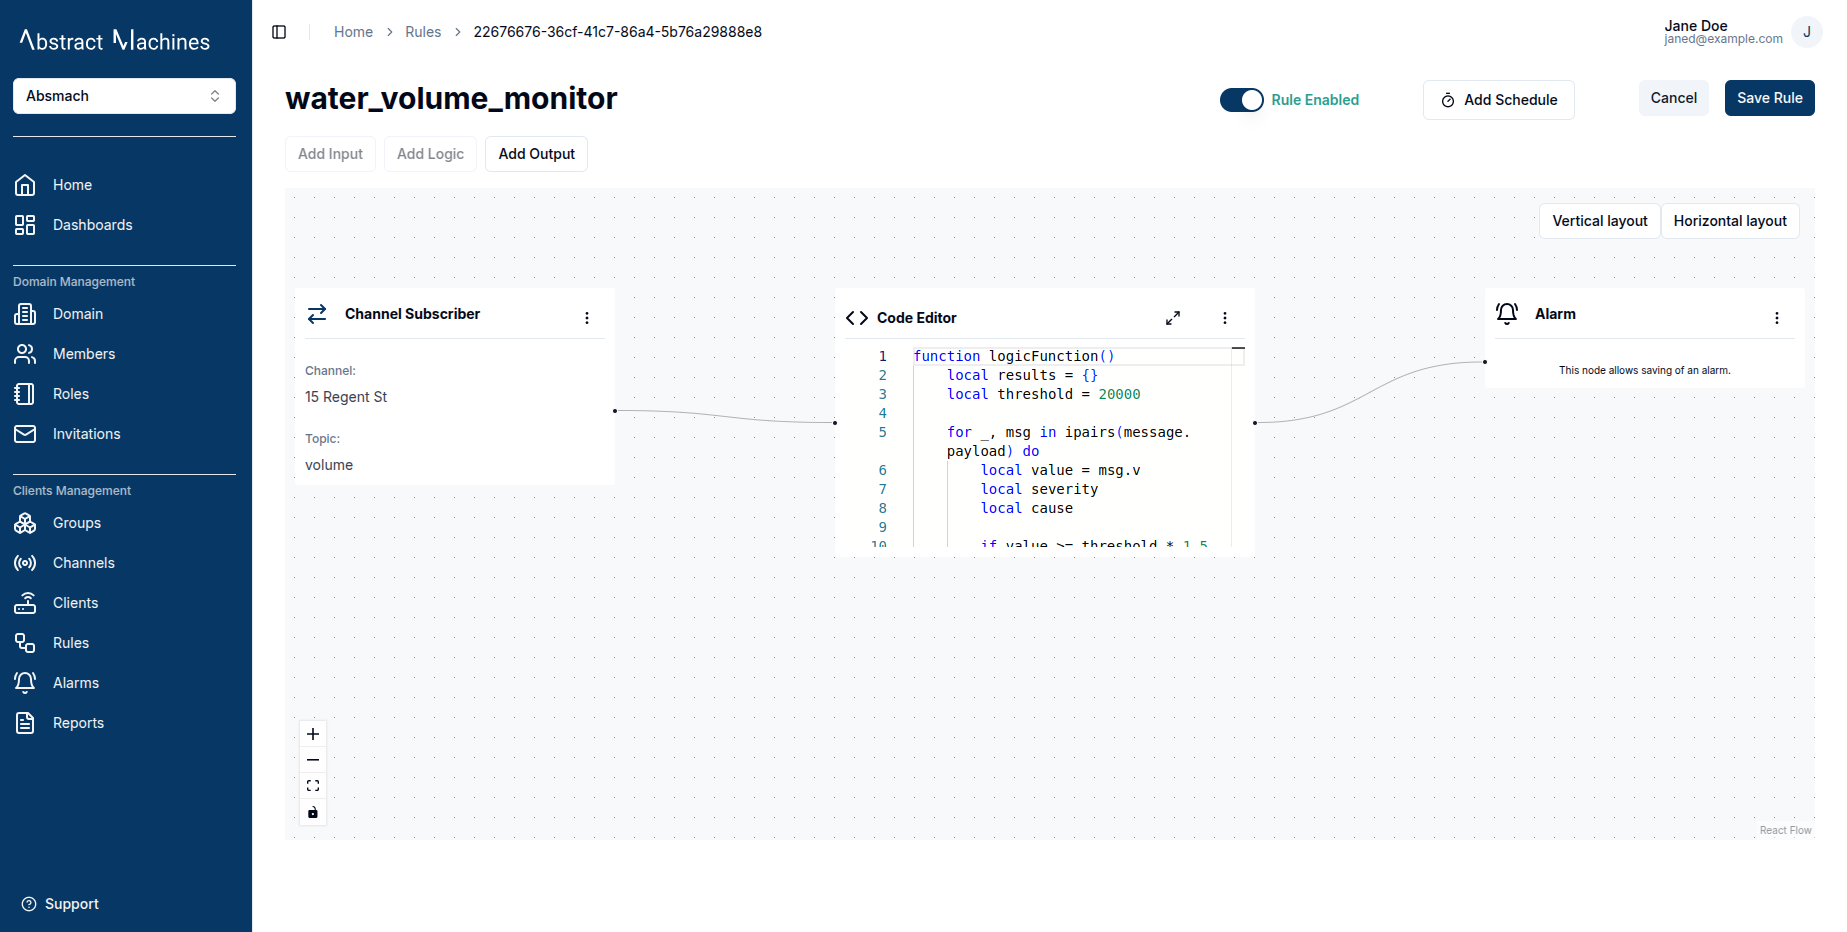
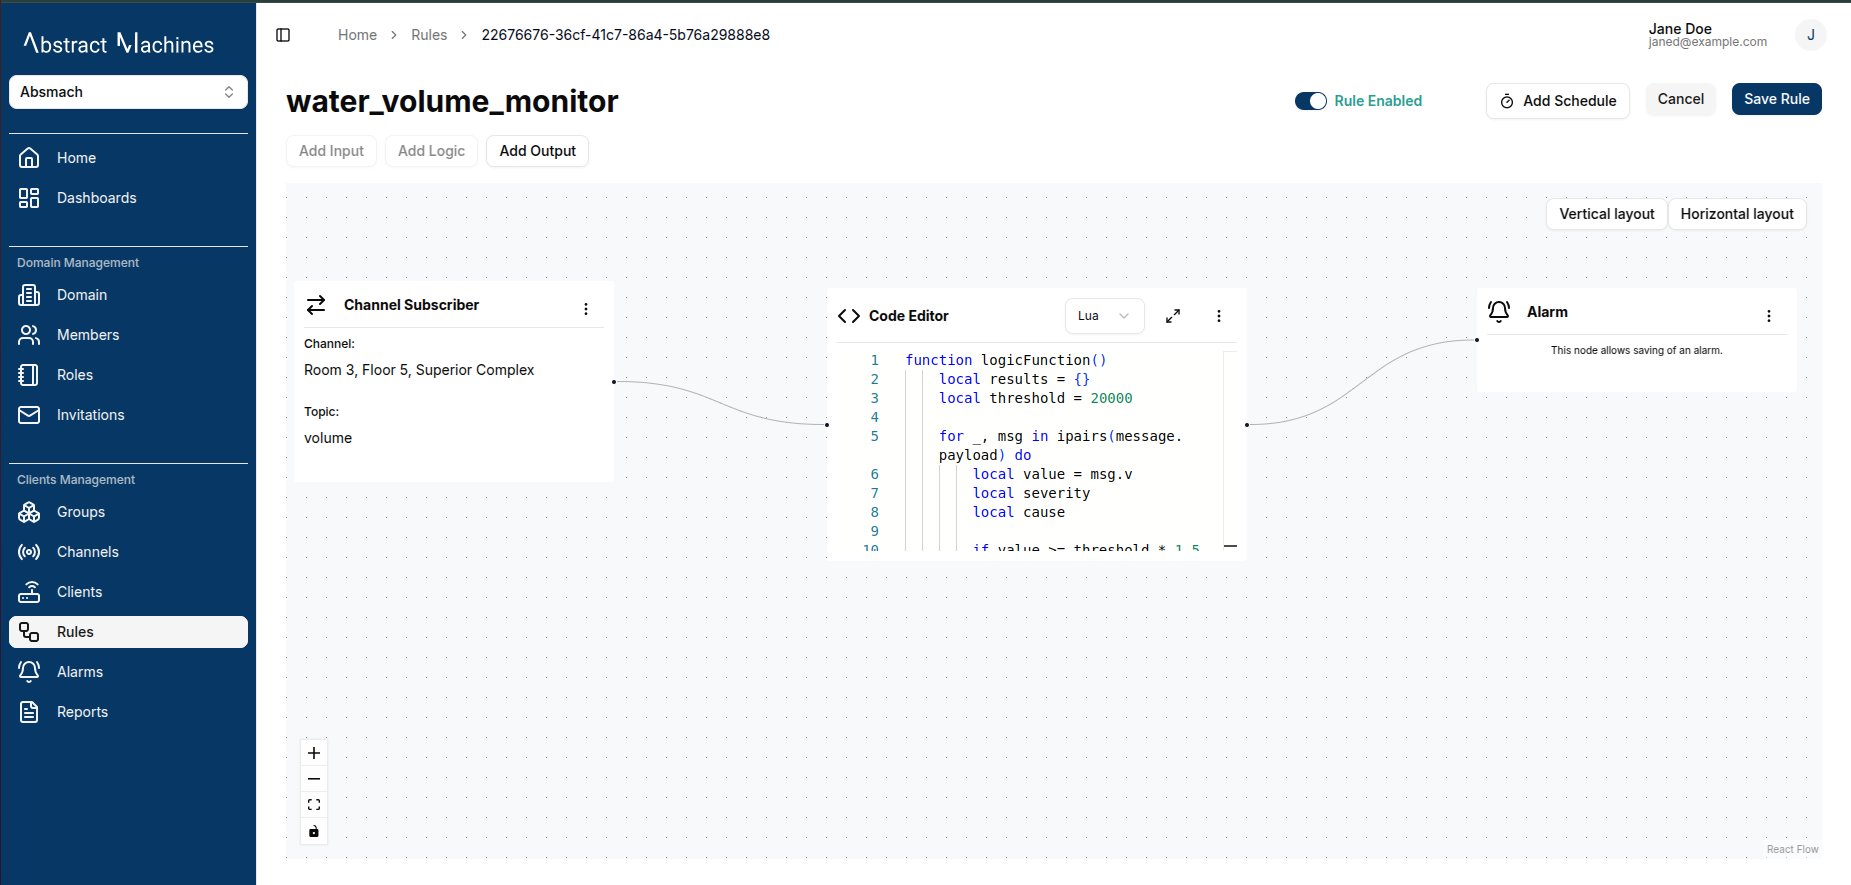
update logic node images

diff --git a/docs/user-guide/alarms.md b/docs/user-guide/alarms.md
@@ -80,7 +80,7 @@ To create an alarm, first define an alarm rule in the Rules Engine.
 
    ![Alarm rule](../img/alarms/alarm-rule.png)
 
-Below is a Lua script example for checking water level thresholds:
+Below are examples of Lua and Go scripts for checking water level thresholds:
 
 ```Lua title="Lua script"
 function logicFunction()
@@ -138,7 +138,7 @@ type alarm struct {
 
 func logicFunction() any {
   results := []alarm{}
-  threshold := 30.0
+  threshold := 20000.0
   pld, ok := m.message.Payload.([]any)
   if !ok {
   panic("invalid payload")
